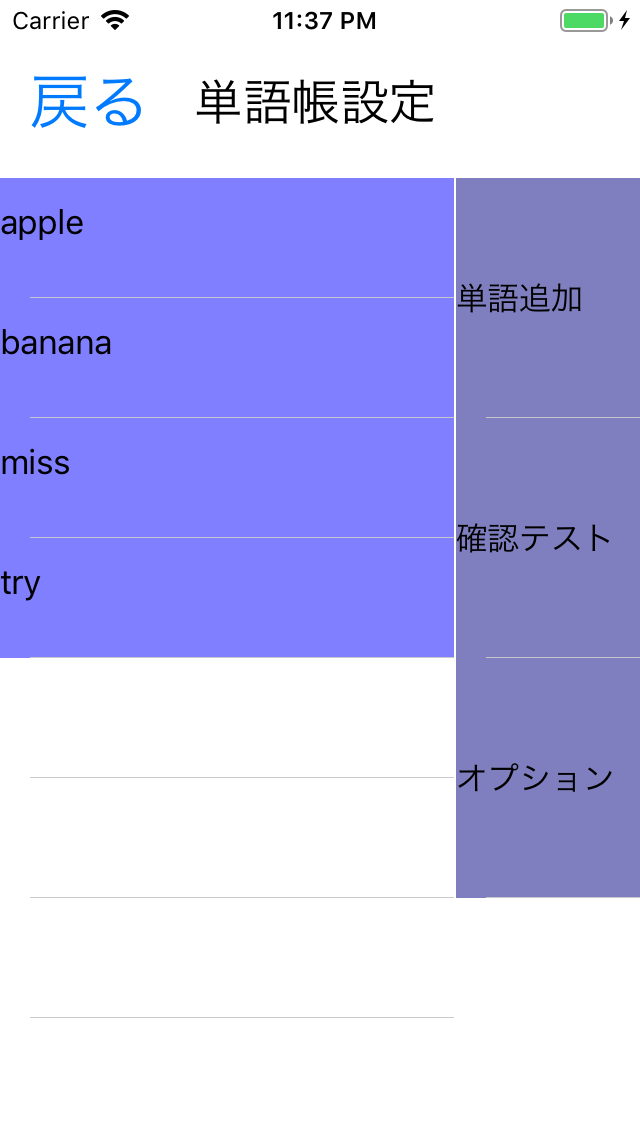
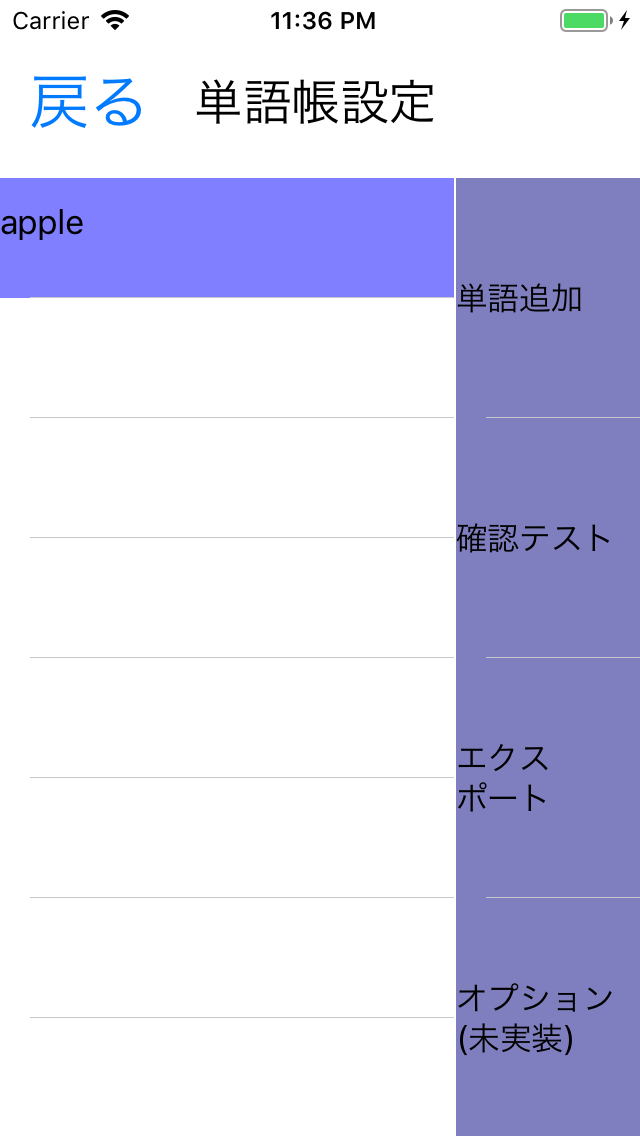
単語帳設定画面に「エクスポート」ボタン追加（機能未実装）

diff --git a/EnglishWords/EnglishWords/ConfigureWordNoteBookViewController.swift b/EnglishWords/EnglishWords/ConfigureWordNoteBookViewController.swift
@@ -19,7 +19,7 @@ class ConfigureWordNoteBookViewController: UIViewController, UITableViewDelegate
     var card: WordNote?
     var wordnotebook: WordNoteBook?
     
-    let sidebarlist = ["単語追加","確認テスト","オプション"]
+    let sidebarlist = ["単語追加","確認テスト","エクスポート","オプション(未実装)"]
     
     override func viewDidLoad() {
         super.viewDidLoad()
